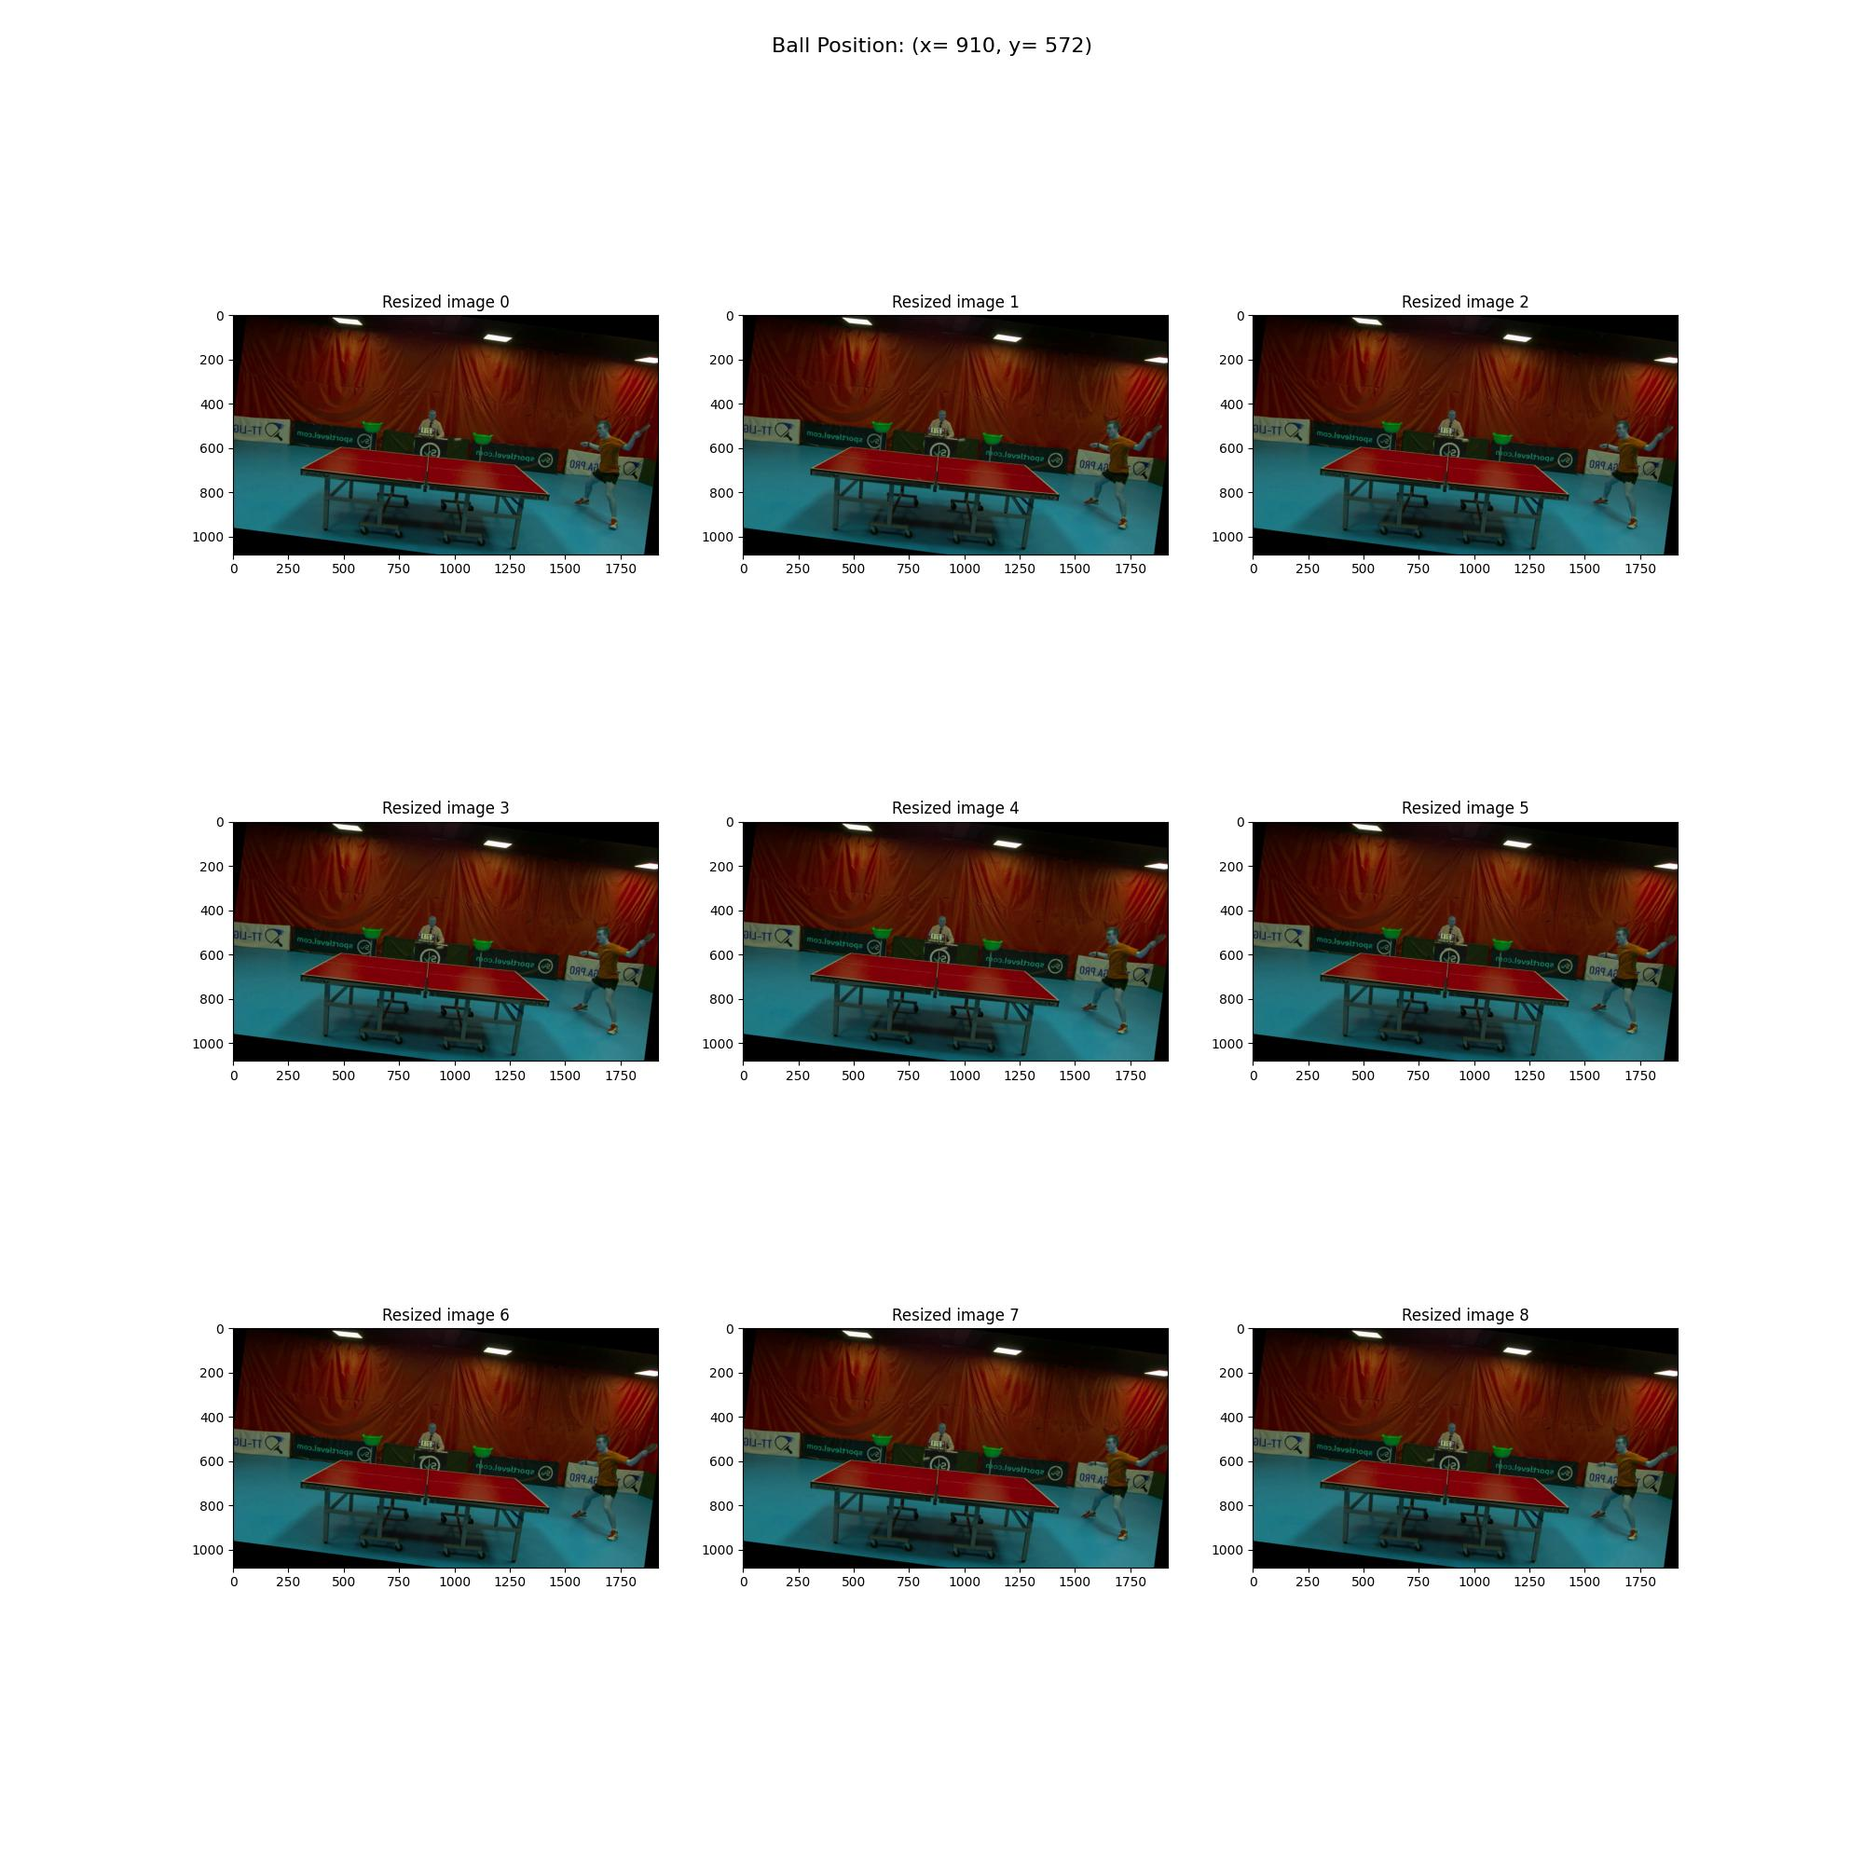
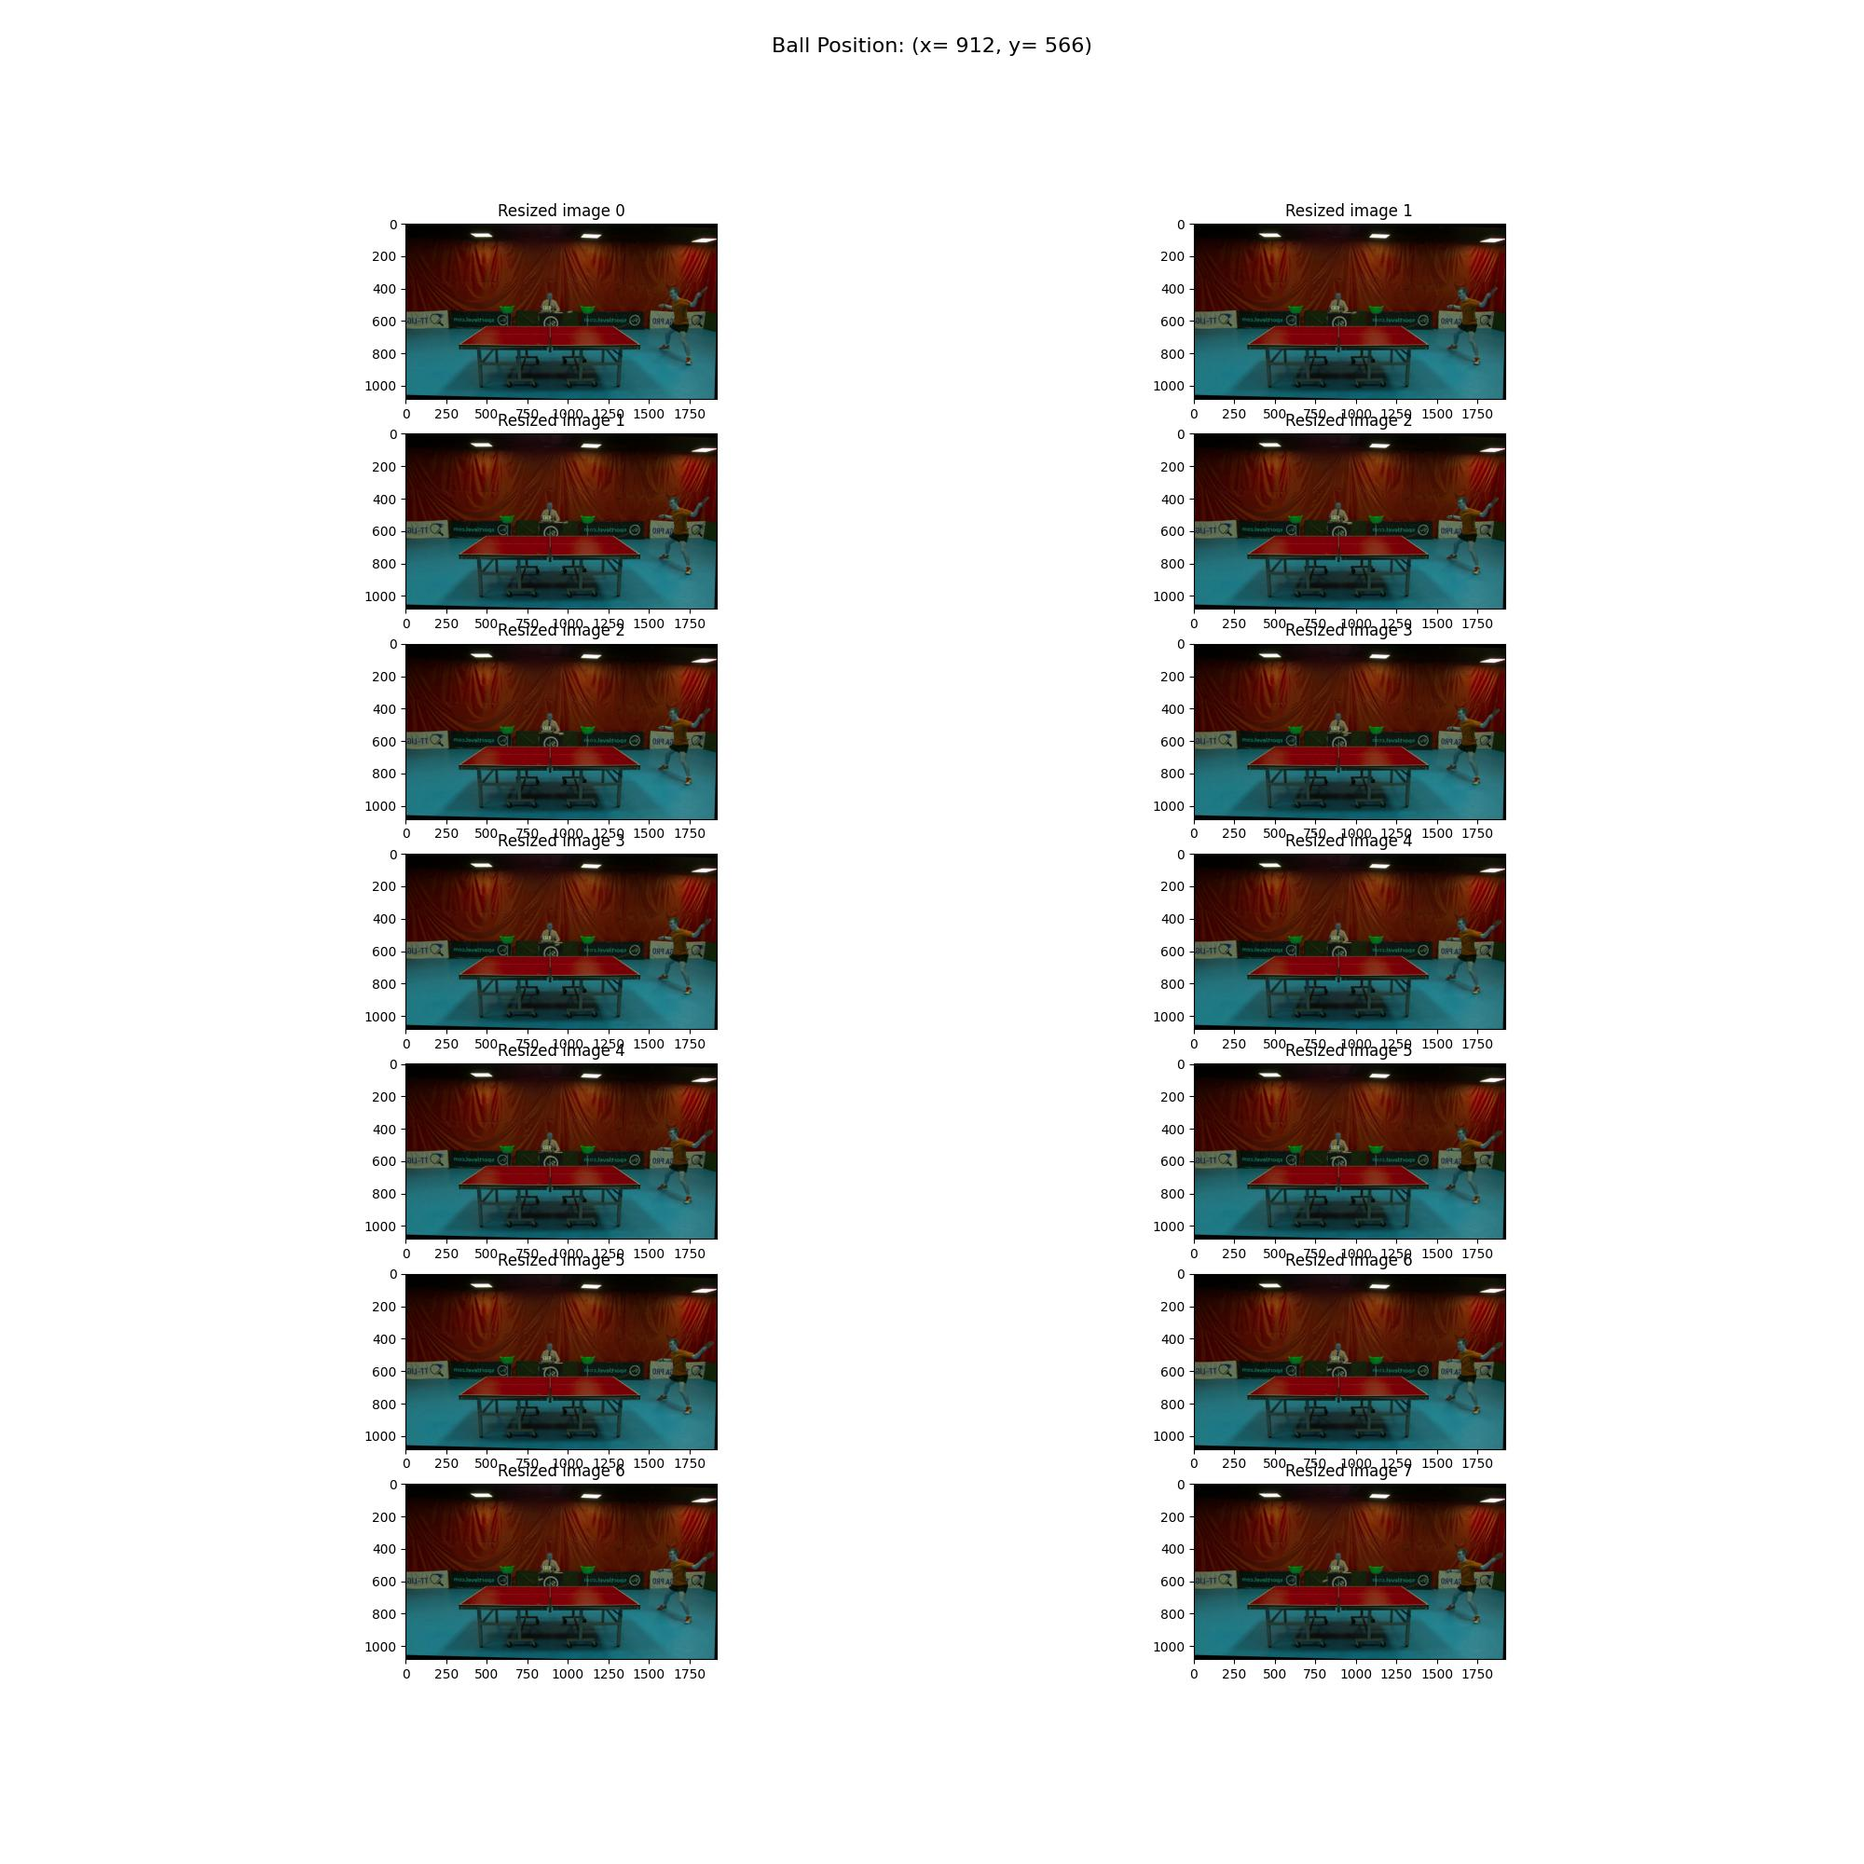
Complete dataloader

diff --git a/src/data_process/dataset.py b/src/data_process/dataset.py
@@ -27,6 +27,8 @@ class PIDA_dataset(Dataset):
         imgs = []
         for img_path in img_path_list:
             img = cv2.imread(img_path)
+            if img is None:
+                raise ValueError(f"Image not found or can't be read at path: {img_path}")
             imgs.append(img)
         # Apply augmentation
         if self.transform:
@@ -36,10 +38,28 @@ class PIDA_dataset(Dataset):
         for img in imgs:    
             img = np.transpose(img, (2, 0, 1))  # Now img is (C, H, W)
             converted_imgs.append(img)
-
-        numpy_imgs = np.stack(converted_imgs, axis=0)  # Stack along the new axis (N)
+        # stack them to form the shape (1,num_frames, C, H, W)
+        # numpy_imgs = np.stack(converted_imgs, axis=0)  # Stack along the new axis (N)
+        # convert them into pairs formation
+        image_pairs = []
+        masked_frameid = len(converted_imgs)//2 
+        i = 1
+        while i < len(converted_imgs):
+            # Handle the masked frame case by skipping the masked frame
+            if i == masked_frameid:
+                # Convert to NumPy arrays
+                image_pair = (np.array(converted_imgs[i-1]), np.array(converted_imgs[i+1]))
+                image_pairs.append(image_pair)
+                i += 2  # Skip the masked frame and move to the next
+            else:
+                # Convert to NumPy arrays
+                image_pair = (np.array(converted_imgs[i-1]), np.array(converted_imgs[i]))
+                image_pairs.append(image_pair)
+                i += 1  # Standard increment
         
-        return numpy_imgs, ball_xy.astype(int)
+        image_pairs_np = np.array(image_pairs)
+        masked_frame = np.array(converted_imgs[masked_frameid])
+        return image_pairs_np, (masked_frameid, masked_frame, np.array(ball_xy.astype(int)))
 
 
 if __name__ == '__main__':
@@ -52,8 +72,6 @@ if __name__ == '__main__':
     from data_process.transformation import Compose, Random_Crop, Resize, Random_HFlip, Random_Rotate
 
     configs = parse_configs()
-    game_list = ['game_1']
-    dataset_type = 'training'
     train_events_infor, val_events_infor, train_events_label, val_events_label = train_val_data_separation(configs)
     print('len(train_events_infor): {}'.format(len(train_events_infor)))
     # Test transformation
@@ -66,59 +84,93 @@ if __name__ == '__main__':
     ttnet_dataset = PIDA_dataset(train_events_infor, train_events_label, transform=transform)
 
     print('len(ttnet_dataset): {}'.format(len(ttnet_dataset)))
-    example_index = 100
-    imgs, ball_xy = ttnet_dataset.__getitem__(example_index)
+    example_index = 200
+    image_pairs_np, (masked_frameid, masked_frame, ball_xy) = ttnet_dataset.__getitem__(example_index)
+
     if 1:
-        # Test F.interpolate, we can simply use cv2.resize() to get origin_imgs from resized_imgs
-        # Achieve better quality of images and faster
-        print(f"dataset images shape is {imgs.shape}")
-        origin_imgs = F.interpolate(torch.from_numpy(imgs).float(), (1080, 1920))
+        # Test F.interpolate (Torch-based resizing)
+        print(f"dataset images shape is {image_pairs_np.shape}")
+        
+        # Reshape (7, 2, C, H, W) to (7*2, C, H, W) to handle each image independently for resizing
+        imgs = image_pairs_np.reshape(-1, image_pairs_np.shape[2], image_pairs_np.shape[3], image_pairs_np.shape[4])
+        
+        origin_imgs = F.interpolate(torch.from_numpy(imgs).float(), size=(1080, 1920))
+        
+        # Convert back to NumPy and reshape to (7, 2, 1080, 1920, C) for further usage
         origin_imgs = origin_imgs.numpy().transpose(0, 2, 3, 1).astype(np.uint8)  # (N, C, H, W) to (N, H, W, C)
+        origin_imgs = origin_imgs.reshape(7, 2, 1080, 1920, -1)  # Reshape back to (7, 2, 1080, 1920, C)
+        
         print('F.interpolate - origin_imgs shape: {}'.format(origin_imgs.shape))
-        resized_imgs = imgs.transpose(0, 2, 3, 1)  # (N, H, W, C)
+        
+        # Reshape for resized images (from (7, 2, C, H, W) to (7*2, H, W, C))
+        resized_imgs = imgs.transpose(0, 2, 3, 1)  # (N, C, H, W) to (N, H, W, C)
+        resized_imgs = resized_imgs.reshape(7, 2, resized_imgs.shape[1], resized_imgs.shape[2], resized_imgs.shape[3])
         print('resized_imgs shape: {}'.format(resized_imgs.shape))
+
     else:
-        # Test cv2.resize
-        resized_imgs = imgs.transpose(0, 2, 3, 1)  # (N, H, W, C)
-        print('resized_imgs shape: {}'.format(resized_imgs.shape))
-        origin_imgs = np.array([cv2.resize(img, (1920, 1080)) for img in resized_imgs])  # Resize each image in the batch
-        print('cv2.resize - origin_imgs shape: {}'.format(origin_imgs.shape))  # Should print (9, 1080, 1920, 3)
+        # Test cv2.resize (CV2-based resizing)
+        resized_imgs = image_pairs_np.transpose(0, 1, 3, 4, 2)  # Convert to (7, 2, H, W, C)
+        
+        # Reshape to (7*2, H, W, C) to process all images
+        resized_imgs = resized_imgs.reshape(-1, resized_imgs.shape[2], resized_imgs.shape[3], resized_imgs.shape[4])
+        
+        # Resize each image in the batch
+        origin_imgs = np.array([cv2.resize(img, (1920, 1080)) for img in resized_imgs])  # (7*2, 1080, 1920, 3)
+        
+        # Reshape back to (7, 2, 1080, 1920, 3)
+        origin_imgs = origin_imgs.reshape(7, 2, 1080, 1920, -1)
+        
+        print('cv2.resize - origin_imgs shape: {}'.format(origin_imgs.shape))
 
     # Set the output directory
     out_images_dir = os.path.join(configs.results_dir, 'debug', 'ttnet_dataset')
     if not os.path.isdir(out_images_dir):
         os.makedirs(out_images_dir)
 
-    # Plot the original images
-    fig, axes = plt.subplots(nrows=3, ncols=3, figsize=(20, 20))
+    # Assuming you want to plot N=9 frames and are forming 8 overlapping pairs
+    fig, axes = plt.subplots(nrows=7, ncols=2, figsize=(100, 100))  # Keep the original 3x3 grid for 9 frames
     axes = axes.ravel()
 
-    # Loop over frames to plot the original images
-    for i in range(configs.num_frames_sequence):
-        img = origin_imgs[i]  # Assuming origin_imgs is in the format (N, H, W, C) or (N, C, H, W)
-        axes[i].imshow(img)
-        axes[i].set_title(f'Original image {i}')
+    for idx in range(len(origin_imgs)):  # This will iterate over 7 pairs
+        img1 = origin_imgs[idx, 0]      # First frame in the pair
+        img2 = origin_imgs[idx, 1]  # Second frame in the pair
+
+        # Plot the first frame in the pair
+        axes[2 * idx].imshow(img1)
+        axes[2 * idx].set_title(f'Original image {idx}')
+
+        # Plot the second frame in the pair
+        axes[2 * idx + 1].imshow(img2)
+        axes[2 * idx + 1].set_title(f'Original image {idx + 1}')
+
     fig.suptitle(
         f'Ball Position: (x= {ball_xy[0]}, y= {ball_xy[1]})', fontsize=16
     )
     plt.savefig(os.path.join(out_images_dir, f'org_all_imgs_{example_index}.jpg'))
     plt.close(fig)  # Close the figure after saving
 
-    # Plot the resized images
-    fig, axes = plt.subplots(nrows=3, ncols=3, figsize=(20, 20))
+    # Plot the resized images (following the same logic)
+    fig, axes = plt.subplots(nrows=7, ncols=2, figsize=(20, 20))  # Keep the original 3x3 grid for 9 frames
     axes = axes.ravel()
 
-    for i in range(configs.num_frames_sequence):
-        img = resized_imgs[i]  # Assuming resized_imgs is also (N, H, W, C) or (N, C, H, W)
-        axes[i].imshow(img)
-        axes[i].set_title(f'Resized image {i}')
-        
-        # If it's the middle frame, add a circle for the ball position
-        if i == (configs.num_frames_sequence//2):
-            print(f"ball frame is {i}")
-            img_with_ball = cv2.circle(img.copy(), tuple(ball_xy), radius=5, color=(255, 0, 0), thickness=2)
-            img_with_ball = cv2.cvtColor(img_with_ball, cv2.COLOR_RGB2BGR)  # Convert to BGR for saving
-            cv2.imwrite(os.path.join(out_images_dir, f'augment_img_{example_index}.jpg'), img_with_ball)
+    for idx in range(len(origin_imgs)):  # This will iterate over 7 pairs
+        img1 = resized_imgs[idx, 0]      # First frame in the pair
+        img2 = resized_imgs[idx, 1]  # Second frame in the pair
+
+        # Plot the first frame in the pair
+        axes[2 * idx].imshow(img1)
+        axes[2 * idx].set_title(f'Resized image {idx}')
+
+        # Plot the second frame in the pair
+        axes[2 * idx + 1].imshow(img2)
+        axes[2 * idx + 1].set_title(f'Resized image {idx + 1}')
+
+    # draw masked frame
+    masked_frame = masked_frame.transpose(1,2,0)
+    print(f"masked frame id is {masked_frameid}, shape is {masked_frame.shape}")
+    img_with_ball = cv2.circle(masked_frame.copy(), tuple(ball_xy), radius=5, color=(255, 0, 0), thickness=2)
+    img_with_ball = cv2.cvtColor(img_with_ball, cv2.COLOR_RGB2BGR)  # Convert to BGR for saving
+    cv2.imwrite(os.path.join(out_images_dir, f'augment_img_{example_index}.jpg'), img_with_ball)
 
     fig.suptitle(
         f'Ball Position: (x= {ball_xy[0]}, y= {ball_xy[1]})', fontsize=16

diff --git a/src/data_process/dataloader.py b/src/data_process/dataloader.py
@@ -1,6 +1,10 @@
 import sys
 
 import torch
+import matplotlib.pyplot as plt
+import numpy as np
+import cv2
+import os
 from torch.utils.data import DataLoader
 
 sys.path.append('../')
@@ -65,7 +69,67 @@ if __name__ == '__main__':
 
     configs = parse_configs()
     configs.distributed = False  # For testing
+
+    # Create dataloaders
     train_dataloader, val_dataloader, train_sampler = create_train_val_dataloader(configs)
     print('len train_dataloader: {}, val_dataloader: {}'.format(len(train_dataloader), len(val_dataloader)))
+
     test_dataloader = create_test_dataloader(configs)
     print(f"len test_loader {len(test_dataloader)}")
+
+    # # Get one batch from train_dataloader
+    # for batch in train_dataloader:
+    #     # Assuming batch contains both input data and labels
+    #     inputs, (masked_frameids, masked_frames, labels) = batch
+    #     print(f"Train batch data shape: {inputs.shape}")
+    #     print(f"Train batch labels shape: {labels.shape}")
+    #     break  # Exit after printing the first batch
+
+    # # Get one batch from val_dataloader
+    # for batch in val_dataloader:
+    #     inputs, (masked_frameids, masked_frames, labels) = batch
+    #     print(f"Val batch data shape: {inputs.shape}")
+    #     print(f"Val batch labels shape: {labels.shape}")
+    #     break
+
+    # # Get one batch from test_dataloader
+    # for batch in test_dataloader:
+    #     inputs, (masked_frameids, masked_frames, labels) = batch
+    #     # Test dataloader might have only inputs
+    #     print(f"Test batch data shape: {inputs.shape}")
+    #     print(f"Test batch labels shape: {labels.shape}")
+    #     break
+
+    # show example
+    
+    batch_data, (masked_frameids, masked_frames, labels) = next(iter(train_dataloader))
+
+    # Check the shapes
+    print(f'Batch data shape: {batch_data.shape}')      # Expected: [8, 7, 2, 3, 1080, 1920]
+    print(f'Batch labels shape: {labels.shape}, batch masked frames shape {masked_frames.shape}')  # Expected: [8, 2]
+
+    # Select the first sample in the batch
+    sample_data = batch_data[0]  # Shape: [7, 2, 3, 1080, 1920]
+
+    # Select the first paire in the sequence
+    frame = sample_data[0]  # Shape: [2, 3, 1080, 1920]
+
+    # Select the first frame
+    img = frame[0]  # Shape: [3, 1080, 1920]
+
+    # Transpose the dimensions to [H, W, C]
+    image = np.transpose(img, (1, 2, 0))  # Shape: [1080, 1920, 3]
+    image = image.cpu().numpy()
+    
+    out_images_dir = os.path.join(configs.results_dir, 'debug', 'ttnet_dataset')
+    if not os.path.isdir(out_images_dir):
+        os.makedirs(out_images_dir)
+    cv2.imwrite(os.path.join(out_images_dir, f'example.jpg'), image)
+
+    example_index = 0
+    masked_image = masked_frames[example_index] # Shape(3,1080,1920)
+    masked_frame = np.transpose(masked_image.cpu().numpy(), (1,2,0))
+    ball_xy = labels[example_index].cpu().numpy()
+    img_with_ball = cv2.circle(masked_frame.copy(), tuple(ball_xy), radius=5, color=(255, 0, 0), thickness=2)
+    img_with_ball = cv2.cvtColor(img_with_ball, cv2.COLOR_RGB2BGR)  # Convert to BGR for saving
+    cv2.imwrite(os.path.join(out_images_dir, f'example_label_{example_index}.jpg'), img_with_ball)

diff --git a/src/data_process/transformation.py b/src/data_process/transformation.py
@@ -49,6 +49,7 @@ class Resize(object):
         self.interpolation = interpolation
 
     def __call__(self, imgs, ball_position_xy):
+        transformed_imgs = imgs.copy()
         if random.random() <= self.p:
             h, w, c = imgs[0].shape
             # Resize a sequence of images
@@ -72,6 +73,7 @@ class Random_Crop(object):
         self.interpolation = interpolation
 
     def __call__(self, imgs, ball_position_xy):
+        transformed_imgs = imgs.copy()
         # imgs are before resizing
         if random.random() <= self.p:
             h, w, c = imgs[0].shape
@@ -107,6 +109,7 @@ class Random_Rotate(object):
         self.p = p
 
     def __call__(self, imgs, ball_position_xy):
+        transformed_imgs = imgs.copy()
         if random.random() <= self.p:
             random_angle = random.uniform(-self.rotation_angle_limit, self.rotation_angle_limit)
             # Rotate a sequence of imgs
@@ -130,6 +133,7 @@ class Random_HFlip(object):
         self.p = p
 
     def __call__(self, imgs, ball_position_xy):
+        transformed_imgs = imgs.copy()
         if random.random() <= self.p:
             h, w, c = imgs[0].shape
             transformed_imgs = []
